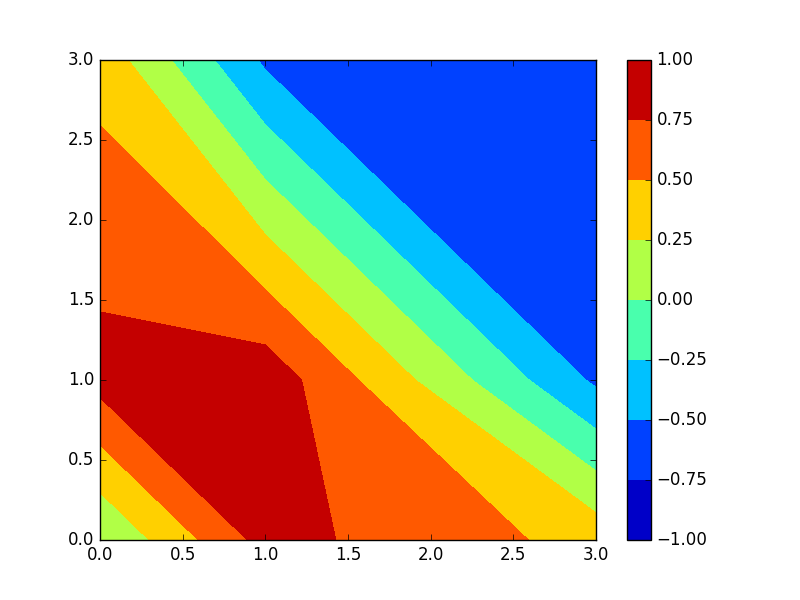
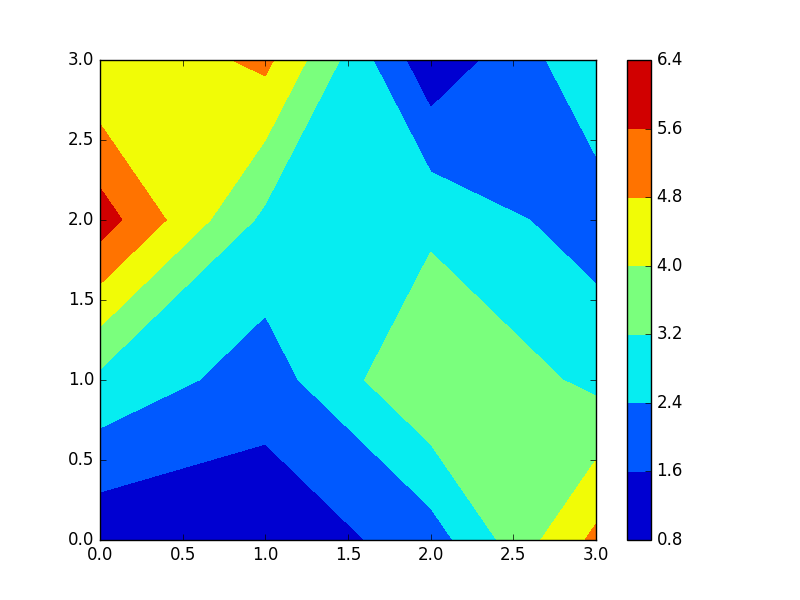
fixed part B

diff --git a/exam/mainB.py b/exam/mainB.py
@@ -3,55 +3,71 @@ import numpy as np
 import bilinearinterpolation as bilin
 np.seterr(divide='ignore', invalid='ignore')
 
-x = np.array([0,1,3])
-y = np.array([0,1,3])
+x = np.array([0,1,2,3])
+y = np.array([0,1,2,3])
 nx = len(x)
 ny = len(y)
 F = np.zeros((nx,ny))
 n = np.zeros((nx*ny,3))
+steplength = 0.02
+kappa = np.zeros((max(x)/steplength,max(y)/steplength))
 
 i = 0
 j = 0
 
+#Define F matrix given a function. Here, it is sqrt(x^2+y^2)
+
 for i in range(len(x)):
     for j in range(len(y)):
-        F[j][i] = np.sin(x[i]*x[i]+y[j]*y[j])#x[j]*x[j]-y[i]*y[i]
+        F[j][i] = np.sqrt(x[i]*x[i]+y[j]*y[j])
 
 print F
 
-k = 0
-l = 0
-for k in range(len(x)):
-    n[0+len(x)*l:len(x)+len(x)*l,0] = x[l]
-    n[0+len(x)*l:len(x)+len(x)*l,1] = y[l]
-    l += 1
+#Defining F after a matrix with known looks
+F[0][0] = 1.0
+F[1][0] = 3.0
+F[2][0] = 6.0
+F[3][0] = 4.0
+F[0][1] = 1.0
+F[1][1] = 2.0
+F[2][1] = 3.0
+F[3][1] = 5.0
+F[0][2] = 2.0
+F[1][2] = 4.0
+F[2][2] = 3.0
+F[3][2] = 1.0
+F[0][3] = 5.0
+F[1][3] = 3.0
+F[2][3] = 2.0
+F[3][3] = 3.0
 
-kappa = np.zeros((150,150))
 
+#Starts performing the bilinear interpolation in correct sequence
 count = 0
 px = 0
 countx = 0
-while px < 3:
+while px < max(x):
     county = 0
     count = 1
     py = 0
-    while py < 3:
+    while py < max(y):
         #print count
         count += 1
         kappa[countx,county] = bilin.bilinear(x, y, F, px, py)
         county += 1
-        py += 0.02
-    px += 0.02
+        py += steplength
+    px += steplength
     countx +=1
 
 
-
+#Plots non-interpolated figure
 plt.figure(1)
 plt.contourf(x,y,F)
 plt.colorbar()
 plt.savefig('noninterpolatedPartB.png',format='png')
 
+#Plots interpolated figure
 plt.figure(2)
-plt.contourf(np.linspace(0,3,countx),np.linspace(0,3,county),kappa,len(kappa))
+plt.contourf(np.linspace(min(x),max(x),countx),np.linspace(min(y),max(y),county),kappa,len(kappa))
 plt.colorbar()
 plt.savefig('interpolatedPartB.png',format='png')

diff --git a/exam/bilinearinterpolation.py b/exam/bilinearinterpolation.py
@@ -8,7 +8,7 @@ def bilinear(x,y,F,px,py):
     j = search.bin(y,py)
     a1 = F[i][j]
     a2 = F[i + 1][j] - F[i][j]
-    a3 = F[i][j+i] - F[i][j]
+    a3 = F[i][j + 1] - F[i][j]
     a4 = F[i][j] - F[i + 1][j] - F[i][j + 1] + F[i + 1][j + 1]
     p = a1 + a2 * (px - x[i]) + a3 * (py - y[j]) + a4 * (px - x[i]) * (py - y[j])
     return p
